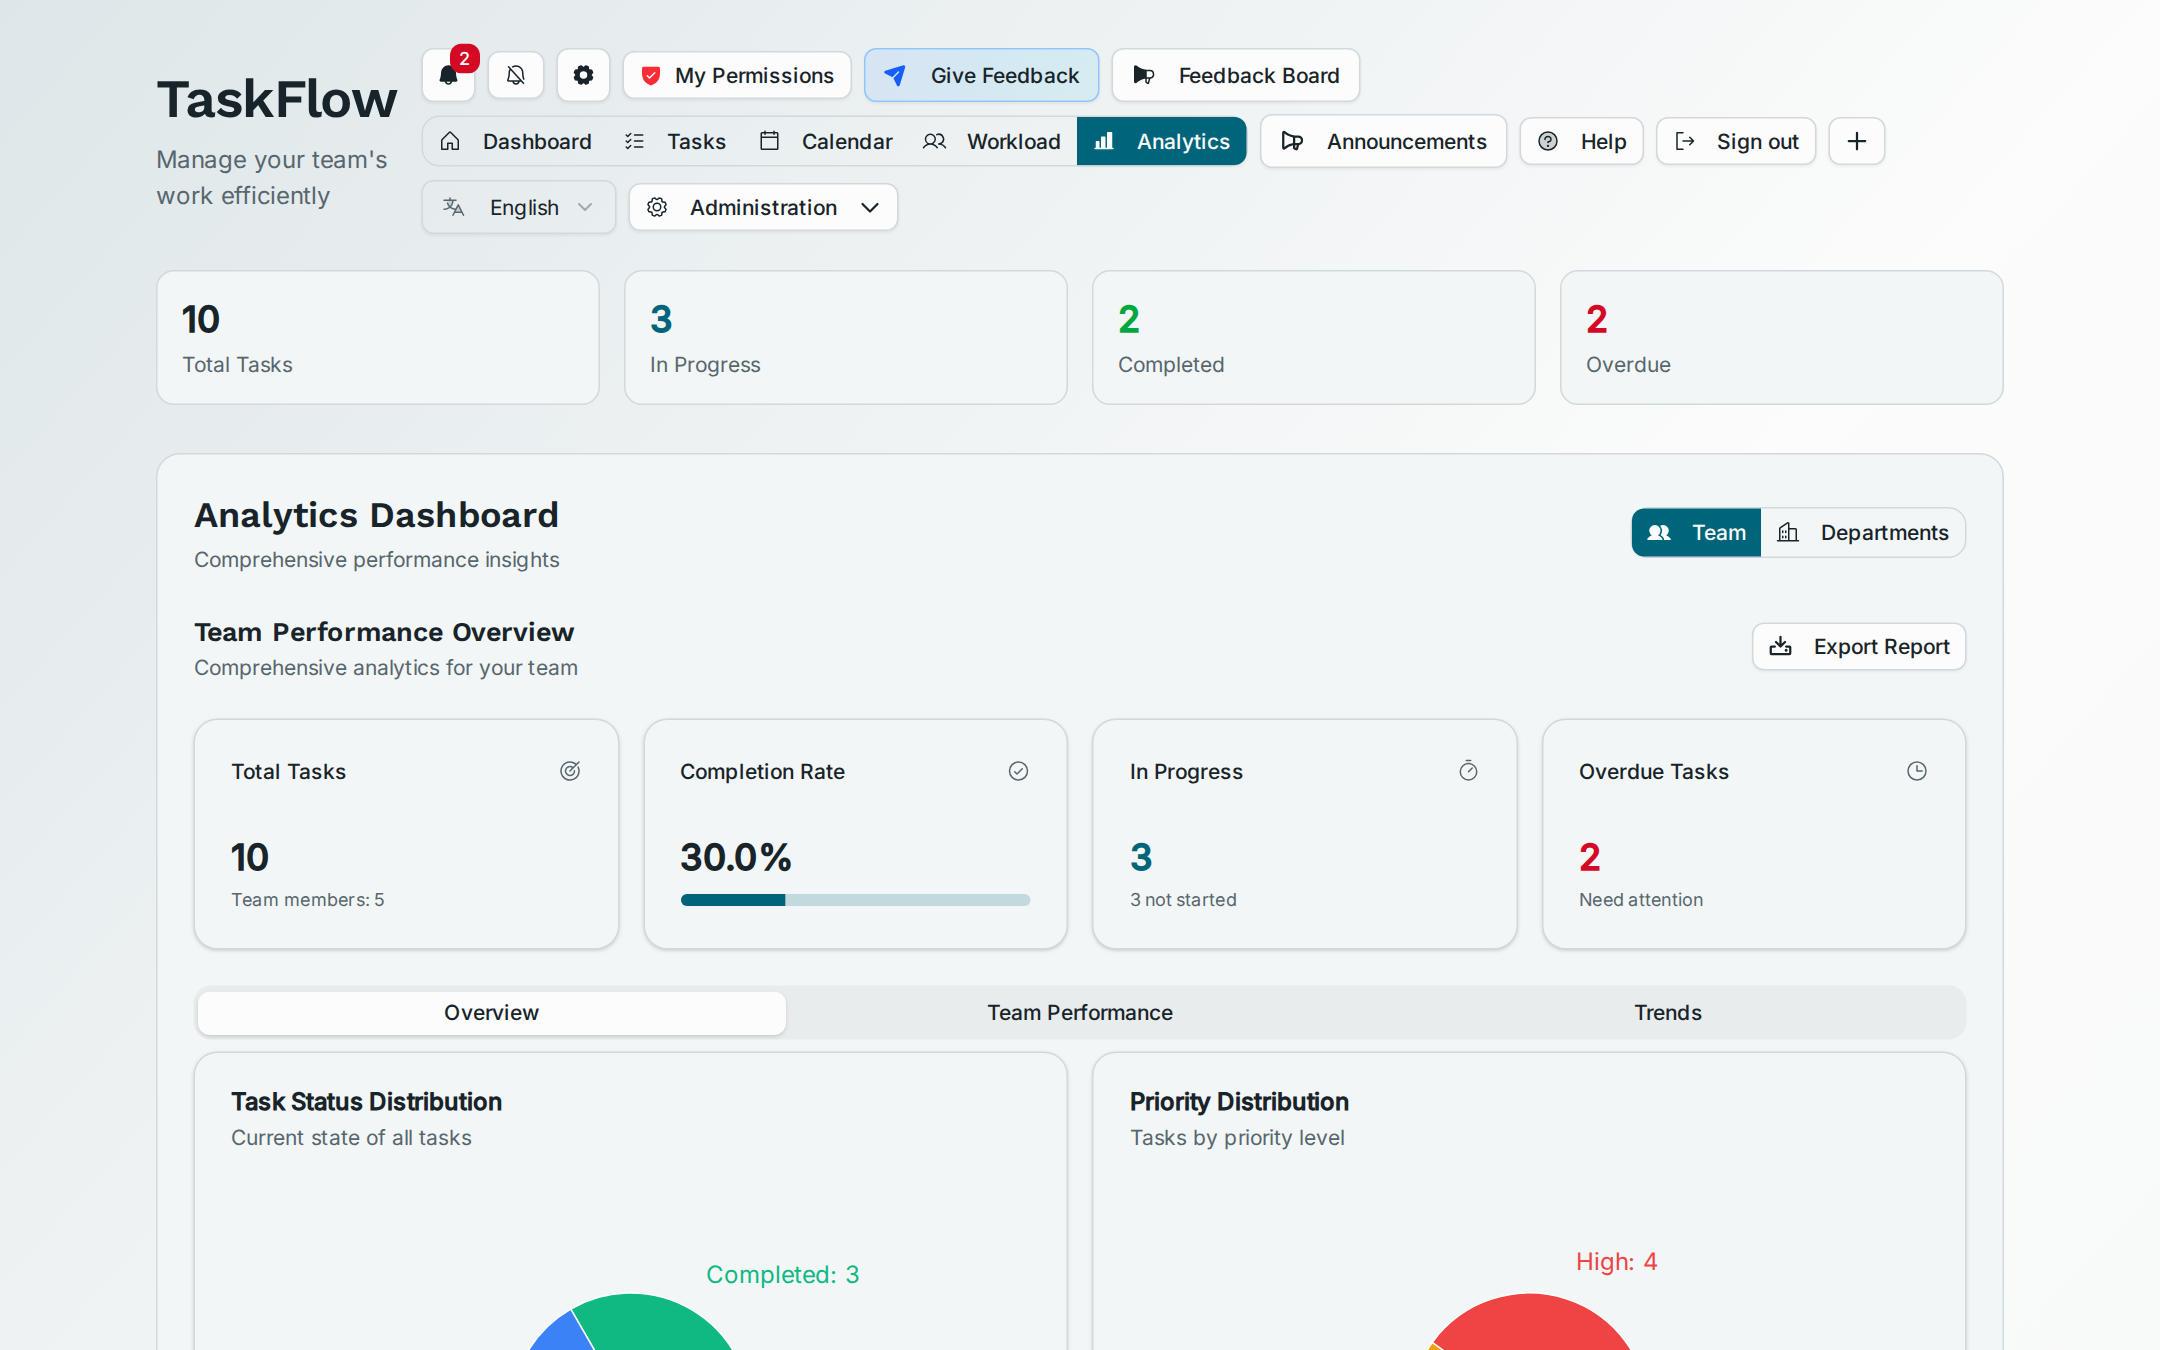
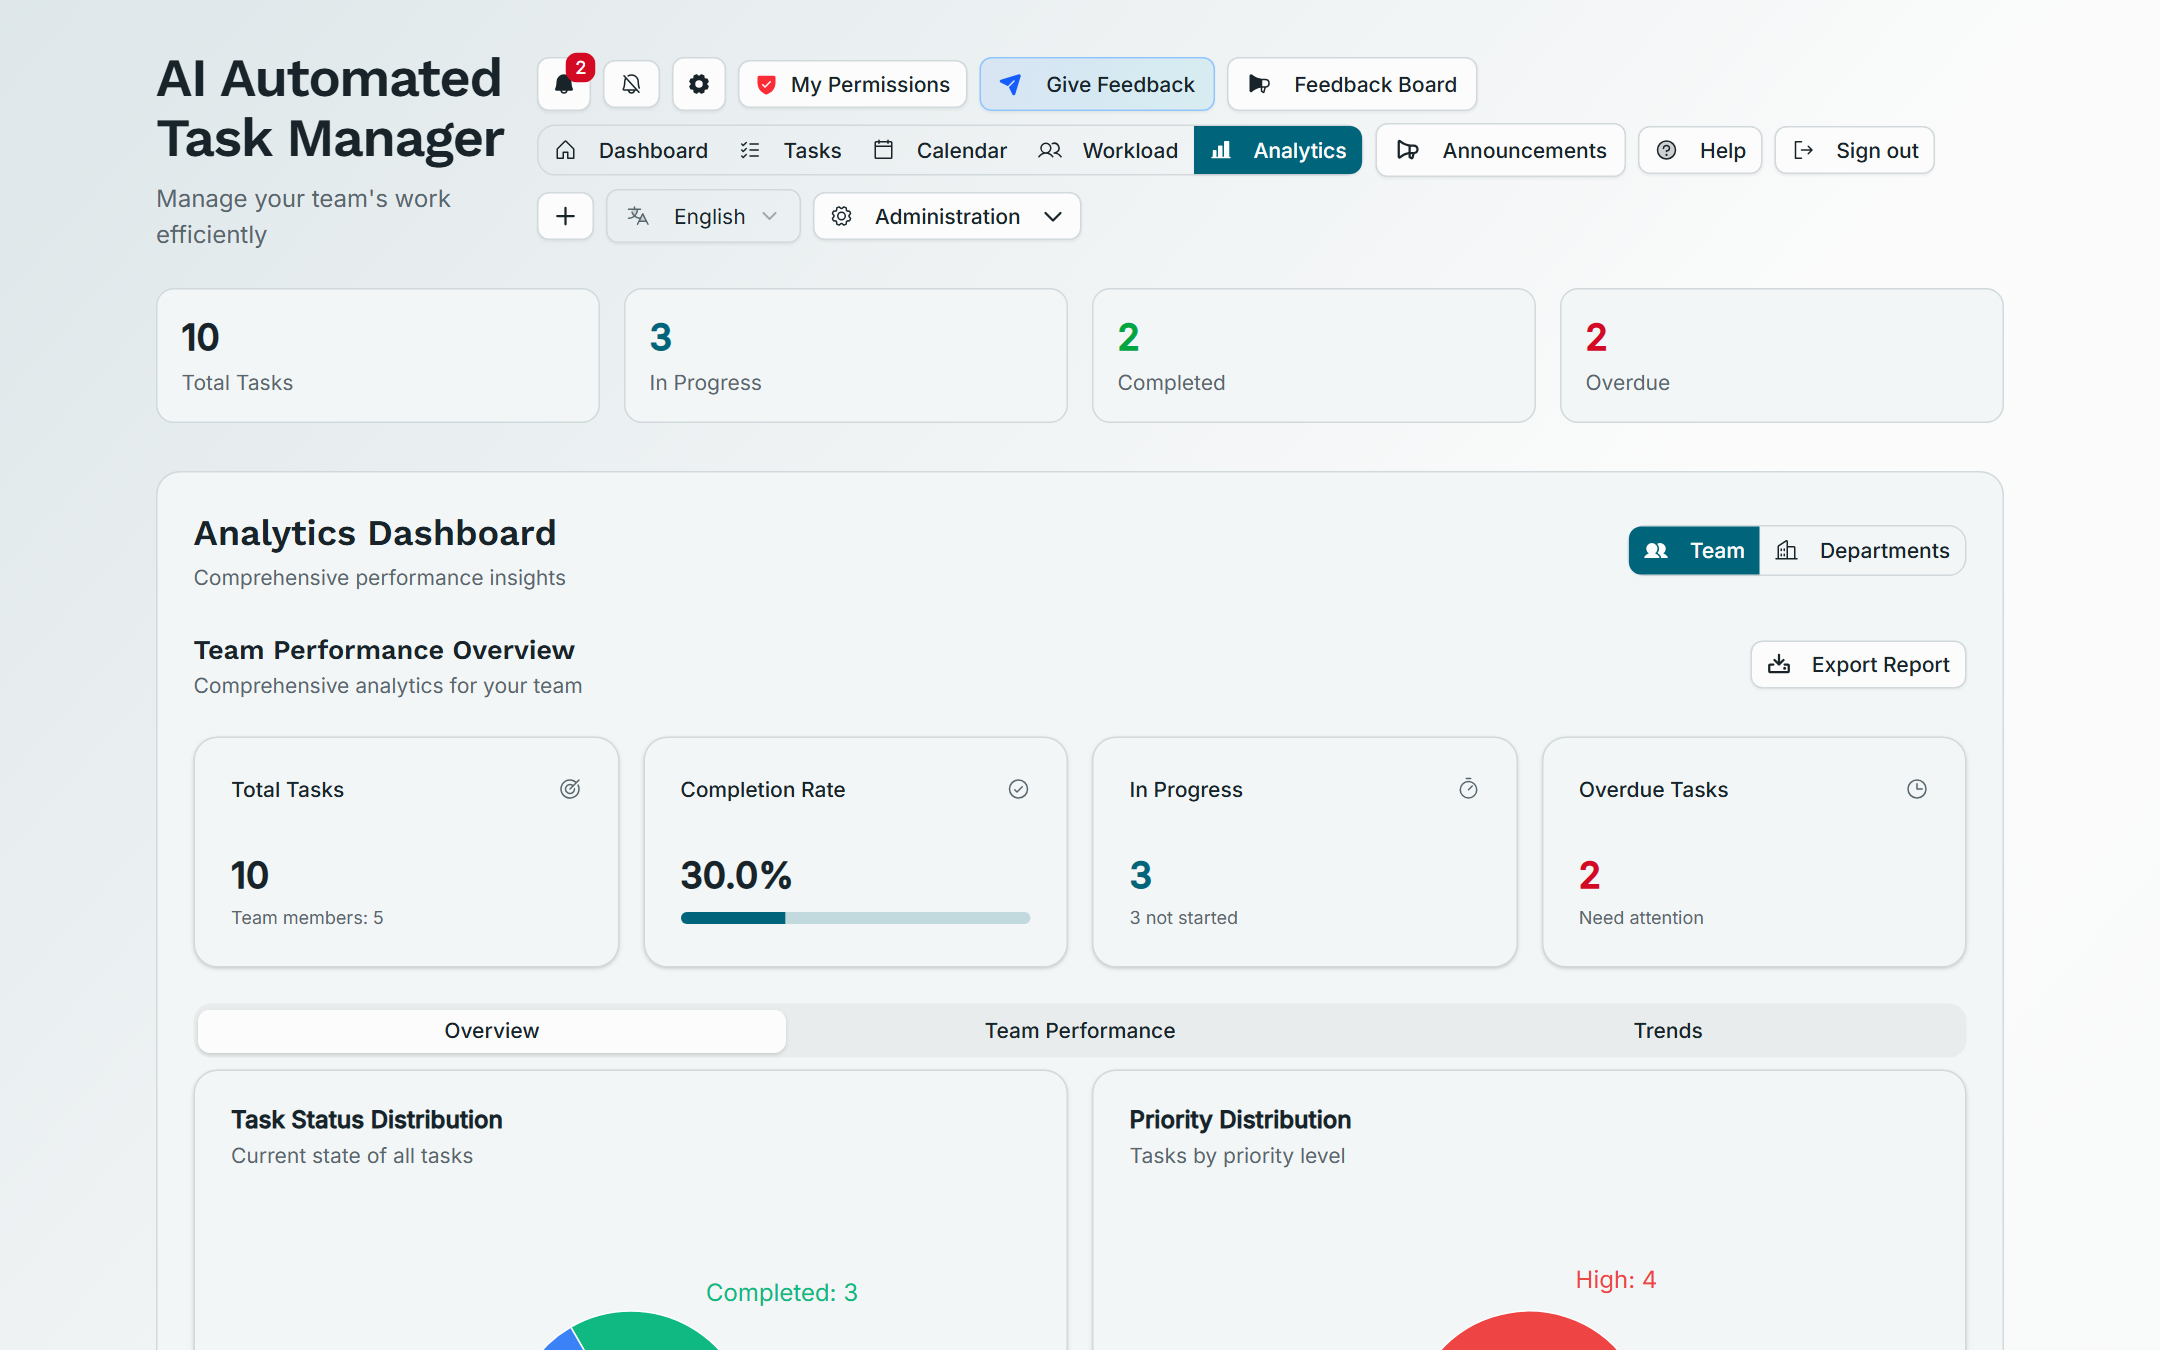
Allinea al repository di sviluppo: brand: rinomina l'app in 'AI Automated Task Manager' + rigenera screenshot
Sincronizzazione dei file tracciati. La configurazione specifica
dell'installazione (supabase/config.toml, variabili d'ambiente) resta
fuori dal repository pubblico.

diff --git a/src/components/FirstOrganizationScreen.tsx b/src/components/FirstOrganizationScreen.tsx
@@ -59,7 +59,7 @@ export function FirstOrganizationScreen() {
     <div className="bg-muted/30 flex min-h-svh items-center justify-center p-4">
       <div className="w-full max-w-md">
         <div className="mb-6 text-center">
-          <h1 className="text-3xl font-bold tracking-tight">TaskFlow</h1>
+          <h1 className="text-3xl font-bold tracking-tight">AI Automated Task Manager</h1>
           <p className="text-muted-foreground text-sm">{t('org.nessuna')}</p>
           <div className="mt-4 flex justify-center">
             <LanguageSwitcher compatto />

diff --git a/src/components/SetNewPasswordScreen.tsx b/src/components/SetNewPasswordScreen.tsx
@@ -58,7 +58,7 @@ export function SetNewPasswordScreen() {
     <div className="bg-muted/30 flex min-h-svh items-center justify-center p-4">
       <div className="w-full max-w-sm">
         <div className="mb-6 text-center">
-          <h1 className="text-3xl font-bold tracking-tight">TaskFlow</h1>
+          <h1 className="text-3xl font-bold tracking-tight">AI Automated Task Manager</h1>
           <p className="text-muted-foreground text-sm">{t('password.sottotitolo')}</p>
         </div>
 

diff --git a/src/components/LoginScreen.tsx b/src/components/LoginScreen.tsx
@@ -110,7 +110,7 @@ export function LoginScreen() {
     <div className="bg-muted/30 flex min-h-svh items-center justify-center p-4">
       <div className="w-full max-w-sm">
         <div className="mb-6 text-center">
-          <h1 className="text-3xl font-bold tracking-tight">TaskFlow</h1>
+          <h1 className="text-3xl font-bold tracking-tight">AI Automated Task Manager</h1>
           <p className="text-muted-foreground text-sm">{t('app.sottotitolo')}</p>
         </div>
 

diff --git a/index.html b/index.html
@@ -4,7 +4,7 @@
 <head>
     <meta charset="UTF-8" />
     <meta name="viewport" content="width=device-width, initial-scale=1.0" />
-    <title>TaskFlow - Employee Task Manager</title>
+    <title>AI Automated Task Manager</title>
     <meta name="description" content="Gestisci il lavoro del tuo team: assegna le attività, segui le scadenze, tieni tutti allineati." />
     <!--
       Il colore della barra del titolo quando l'applicazione e' installata: e'

diff --git a/src/App.tsx b/src/App.tsx
@@ -254,7 +254,7 @@ function App() {
    */
   const [impostazioni] = useKV<SystemSettings | null>('system-settings', null);
   const nomeApplicazione =
-    impostazioni?.general?.applicationName?.trim() || 'TaskFlow';
+    impostazioni?.general?.applicationName?.trim() || 'AI Automated Task Manager';
 
   // Popola `employees` dai membri reali dell'organizzazione: senza questo il
   // menu "Assign To" resta vuoto e i task non sono assegnabili a nessuno.

diff --git a/src/lib/systemSettings.ts b/src/lib/systemSettings.ts
@@ -20,7 +20,7 @@ import type { SystemSettings } from '@/lib/types';
  */
 export const DEFAULT_SETTINGS: SystemSettings = {
   general: {
-    applicationName: 'TaskFlow',
+    applicationName: 'AI Automated Task Manager',
   },
 };
 
